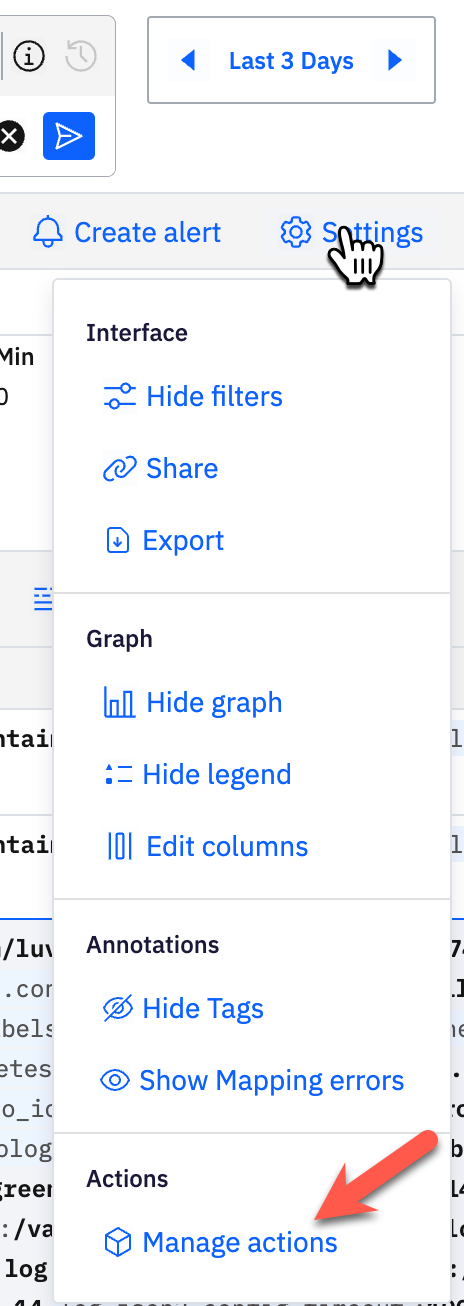
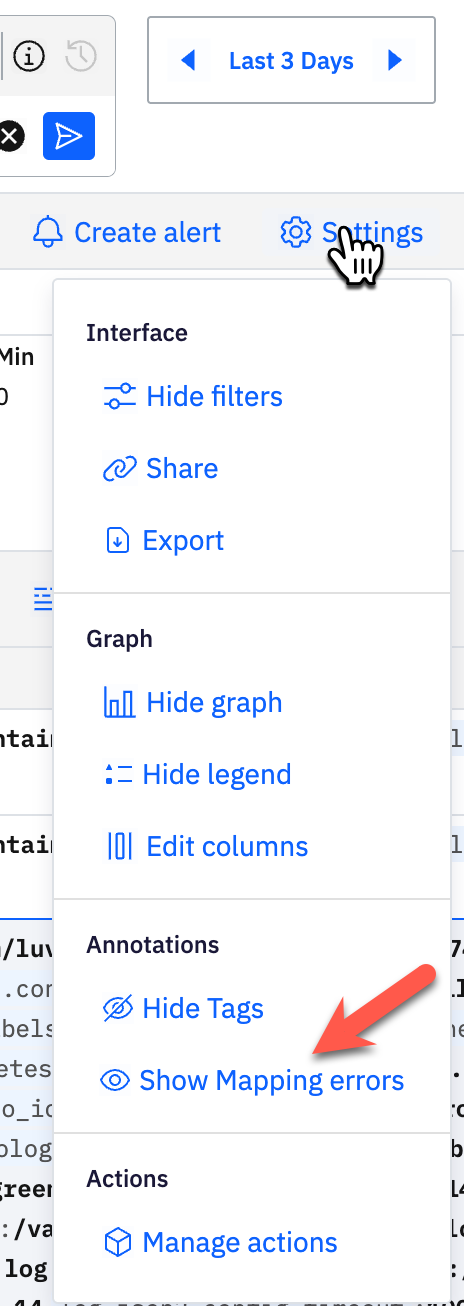
Update: 02-10-2025

Changed region(s): [[0.6638, 0.7351, 0.9655, 0.827], [0.6638, 0.8576, 0.9655, 0.9495]]

diff --git a/_include-segments/mapping-exception-fix.md b/_include-segments/mapping-exception-fix.md
@@ -6,7 +6,7 @@ To identify mapping exceptions, complete the following steps:
 
    Hovering over the icon will display the number of logs with mapping exceptions within the query results in the selected timeframe.
 
-2. To identify the specific logs that were not properly indexed, enable the `Show Mapping Exception` option:
+2. To identify the specific logs that were not properly indexed, enable the `Show Mapping errors` option:
 
    ![Selecting how to show mapping errors. Click Settings and then click Show mapping errors.](../images/me_02a.png){: caption="Selecting how to show mapping errors" caption-side="bottom"}
 
